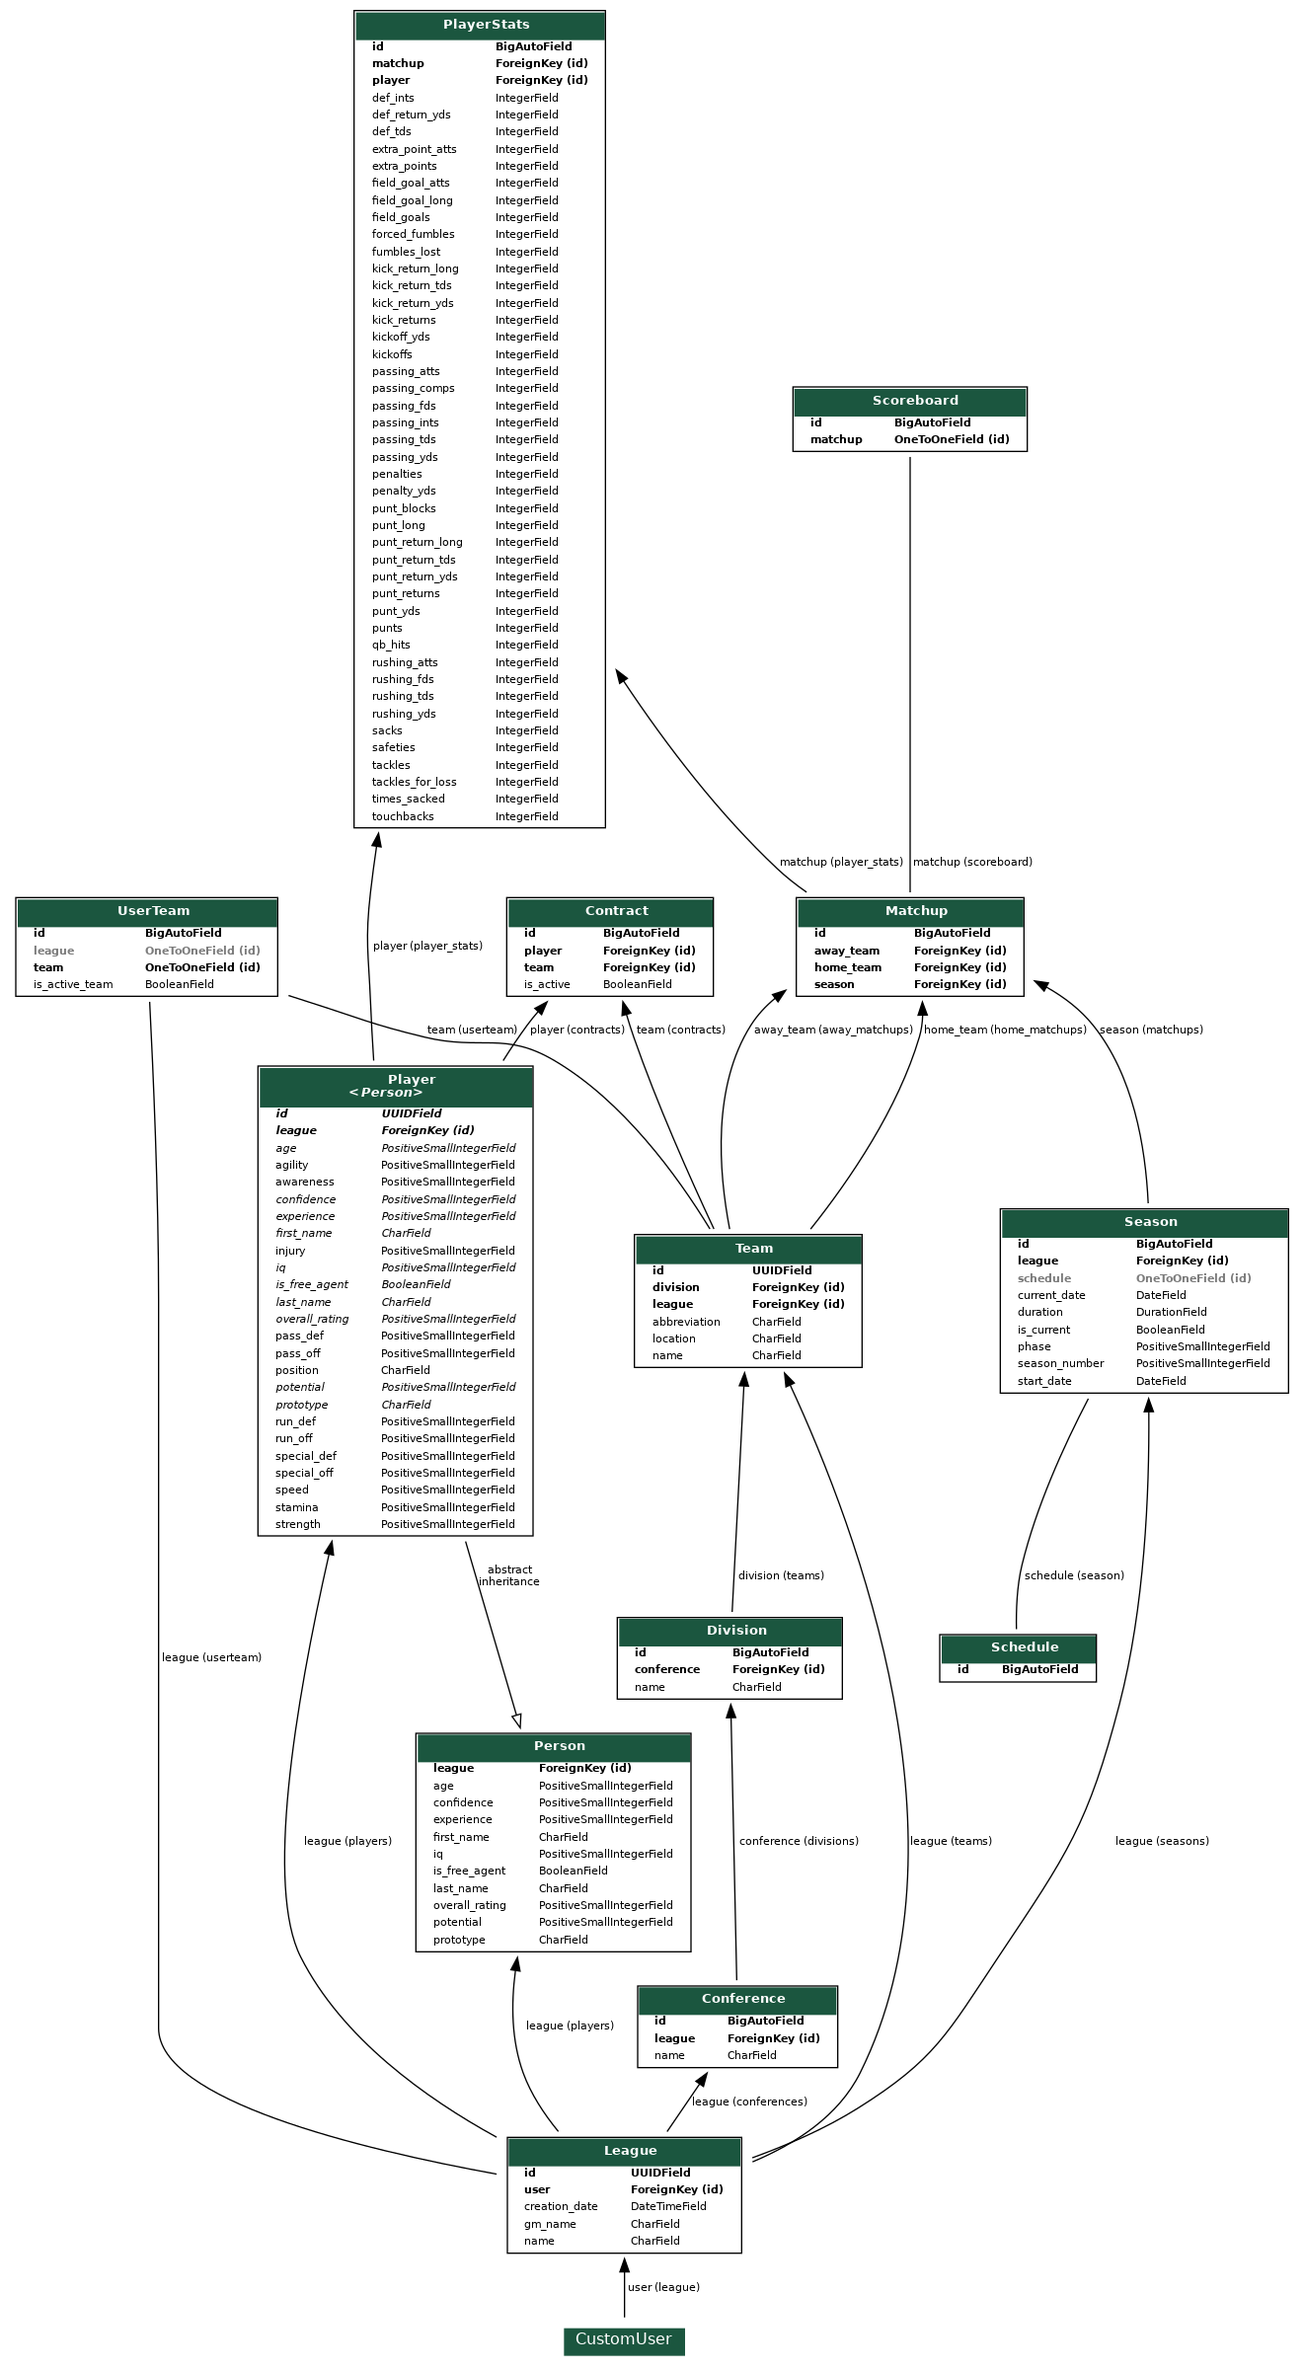
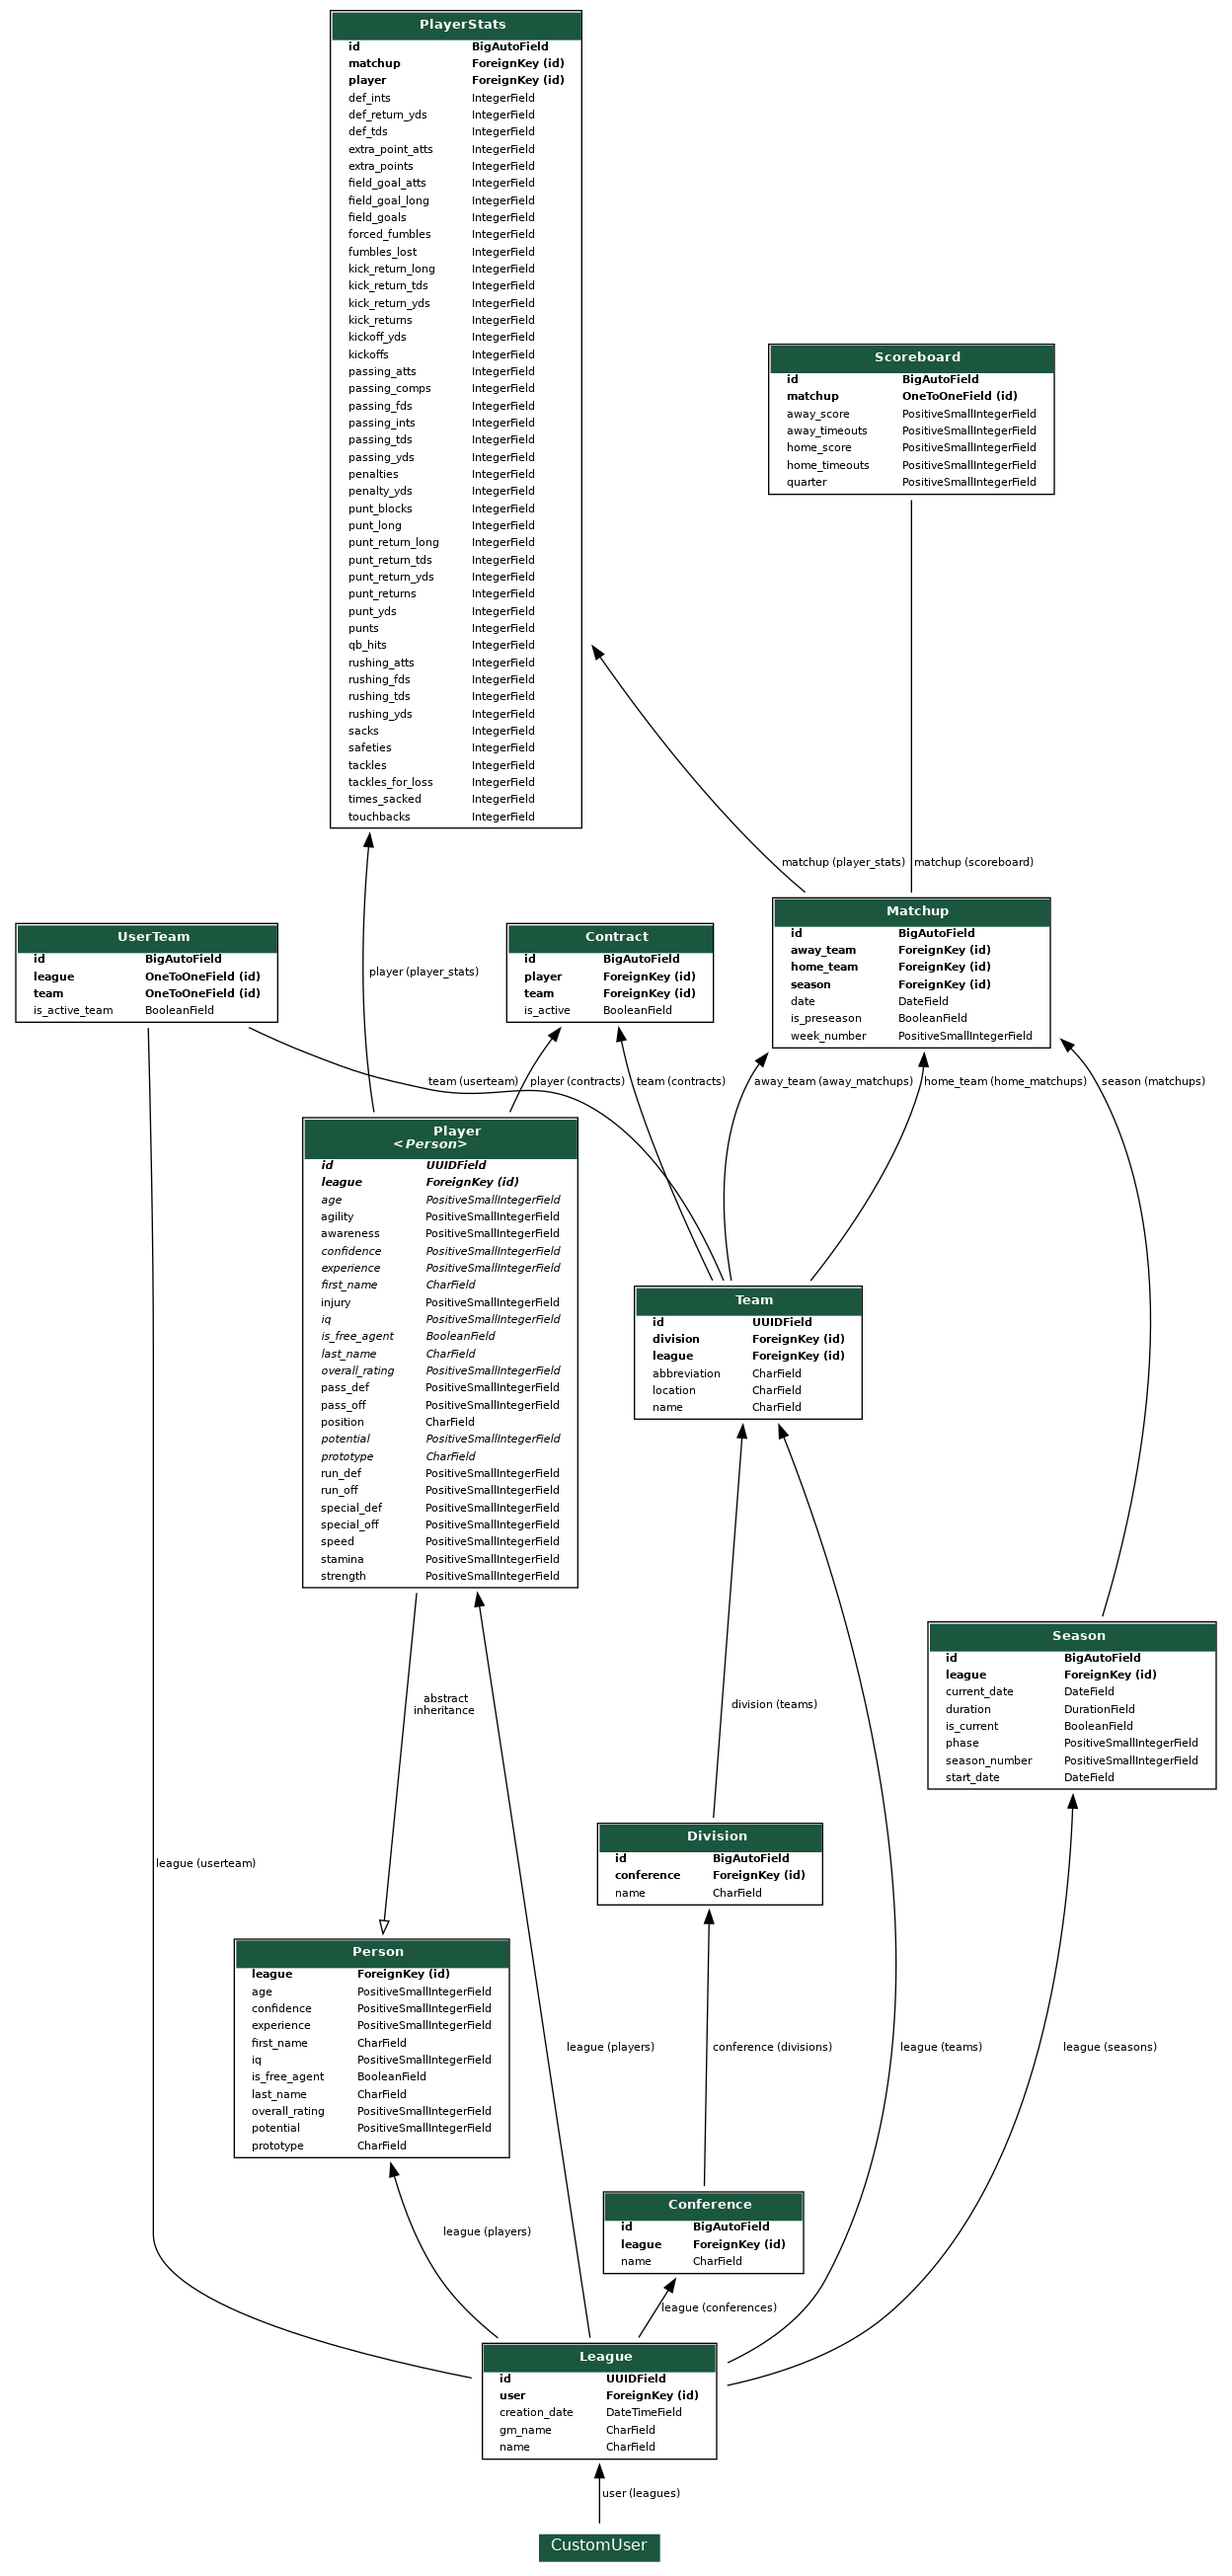
Remove Schedule model, update Matchup and Scoreboard models with new fields

diff --git a/simulation/models.py b/simulation/models.py
@@ -1,7 +1,28 @@
 from django.db import models
-
+from django.db import models
+from django.core.validators import MaxValueValidator, MinValueValidator
+import datetime
 
 class Scoreboard(models.Model):
+    """
+    Add game clock (countdown will happen in JS
+        then update the DB after every play)
+    Separate PossessionFieldPosition model for
+        down, distance, field position, etc.?
+    """
     matchup = models.OneToOneField(
         'leagues.Matchup', on_delete=models.CASCADE
     )
+    home_score = models.PositiveSmallIntegerField(default=0)
+    away_score = models.PositiveSmallIntegerField(default=0)
+    # game_clock =
+    quarter = models.PositiveSmallIntegerField(default=1, validators=[MinValueValidator(1), MaxValueValidator(4)])
+    home_timeouts = models.PositiveSmallIntegerField(default=3, validators=[MinValueValidator(0), MaxValueValidator(3)])
+    away_timeouts = models.PositiveSmallIntegerField(default=3, validators=[MinValueValidator(0), MaxValueValidator(3)])
+    # home_possession = models.BooleanField()
+    # down = models.PositiveSmallIntegerField(validators=[MinValueValidator(1), MaxValueValidator(4)])
+    # distance = models.PositiveSmallIntegerField(validators=[MinValueValidator(1), MaxValueValidator(99)])
+    # field_position = models.PositiveSmallIntegerField(validators=[MinValueValidator(1), MaxValueValidator(99)])
+
+    def __str__(self):
+        return f'Scoreboard for Match {str(self.matchup.pk)} Season {str(self.matchup.season.pk)} - {self.matchup.season.league.name}'

diff --git a/simulation/migrations/0002_auto_20210826_1535.py b/simulation/migrations/0002_auto_20210826_1535.py
@@ -1,0 +1,39 @@
+# Generated by Django 3.2.6 on 2021-08-26 19:35
+
+import django.core.validators
+from django.db import migrations, models
+
+
+class Migration(migrations.Migration):
+
+    dependencies = [
+        ('simulation', '0001_initial'),
+    ]
+
+    operations = [
+        migrations.AddField(
+            model_name='scoreboard',
+            name='away_score',
+            field=models.PositiveSmallIntegerField(default=0),
+        ),
+        migrations.AddField(
+            model_name='scoreboard',
+            name='away_timeouts',
+            field=models.PositiveSmallIntegerField(default=3, validators=[django.core.validators.MinValueValidator(0), django.core.validators.MaxValueValidator(3)]),
+        ),
+        migrations.AddField(
+            model_name='scoreboard',
+            name='home_score',
+            field=models.PositiveSmallIntegerField(default=0),
+        ),
+        migrations.AddField(
+            model_name='scoreboard',
+            name='home_timeouts',
+            field=models.PositiveSmallIntegerField(default=3, validators=[django.core.validators.MinValueValidator(0), django.core.validators.MaxValueValidator(3)]),
+        ),
+        migrations.AddField(
+            model_name='scoreboard',
+            name='quarter',
+            field=models.PositiveSmallIntegerField(default=1, validators=[django.core.validators.MinValueValidator(1), django.core.validators.MaxValueValidator(4)]),
+        ),
+    ]

diff --git a/leagues/models.py b/leagues/models.py
@@ -236,10 +236,6 @@ class Season(models.Model):
         League, on_delete=models.CASCADE,
         related_name='seasons',
     )
-    schedule = models.OneToOneField(
-        'Schedule', on_delete=models.CASCADE,
-        default=None, blank=True, null=True
-    )
     start_date = models.DateField(default=datetime.date(2021, 8, 29))
     current_date = models.DateField(default=datetime.date(2021, 8, 29))
     duration = models.DurationField(default=datetime.timedelta(weeks=52))
@@ -249,10 +245,6 @@ class Season(models.Model):
 
     def __str__(self):
         return f'Season {str(self.pk)} - {self.league.name}'
-
-
-class Schedule(models.Model):
-    pass
 
 
 class Matchup(models.Model):
@@ -268,7 +260,10 @@ class Matchup(models.Model):
         Season, on_delete=models.CASCADE,
         related_name='matchups',
     )
-    
+    date = models.DateField(default=datetime.date(2021, 8, 29))
+    week_number = models.PositiveSmallIntegerField(default=1)
+    is_preseason = models.BooleanField(default=False)
+
     def __str__(self):
         return f'Season #{str(self.season.pk)} - {self.home_team} vs. {self.away_team}'
 

diff --git a/leagues/migrations/0025_auto_20210826_1535.py b/leagues/migrations/0025_auto_20210826_1535.py
@@ -1,0 +1,36 @@
+# Generated by Django 3.2.6 on 2021-08-26 19:35
+
+import datetime
+from django.db import migrations, models
+
+
+class Migration(migrations.Migration):
+
+    dependencies = [
+        ('leagues', '0024_alter_season_schedule'),
+    ]
+
+    operations = [
+        migrations.RemoveField(
+            model_name='season',
+            name='schedule',
+        ),
+        migrations.AddField(
+            model_name='matchup',
+            name='date',
+            field=models.DateField(default=datetime.date(2021, 8, 29)),
+        ),
+        migrations.AddField(
+            model_name='matchup',
+            name='is_preseason',
+            field=models.BooleanField(default=False),
+        ),
+        migrations.AddField(
+            model_name='matchup',
+            name='week_number',
+            field=models.PositiveSmallIntegerField(default=1),
+        ),
+        migrations.DeleteModel(
+            name='Schedule',
+        ),
+    ]

diff --git a/leagues/admin.py b/leagues/admin.py
@@ -3,8 +3,7 @@ from django.contrib import admin
 from .models import (
     League, Conference, Division,
     UserTeam, Team, Player, Contract,
-    Season, Schedule, Matchup,
-    PlayerStats
+    Season, Matchup, PlayerStats
 )
 
 
@@ -71,6 +70,5 @@ admin.site.register(UserTeam)
 admin.site.register(Player, PlayerAdmin)
 admin.site.register(Contract)
 admin.site.register(Season)
-admin.site.register(Schedule)
 admin.site.register(Matchup)
 admin.site.register(PlayerStats)
